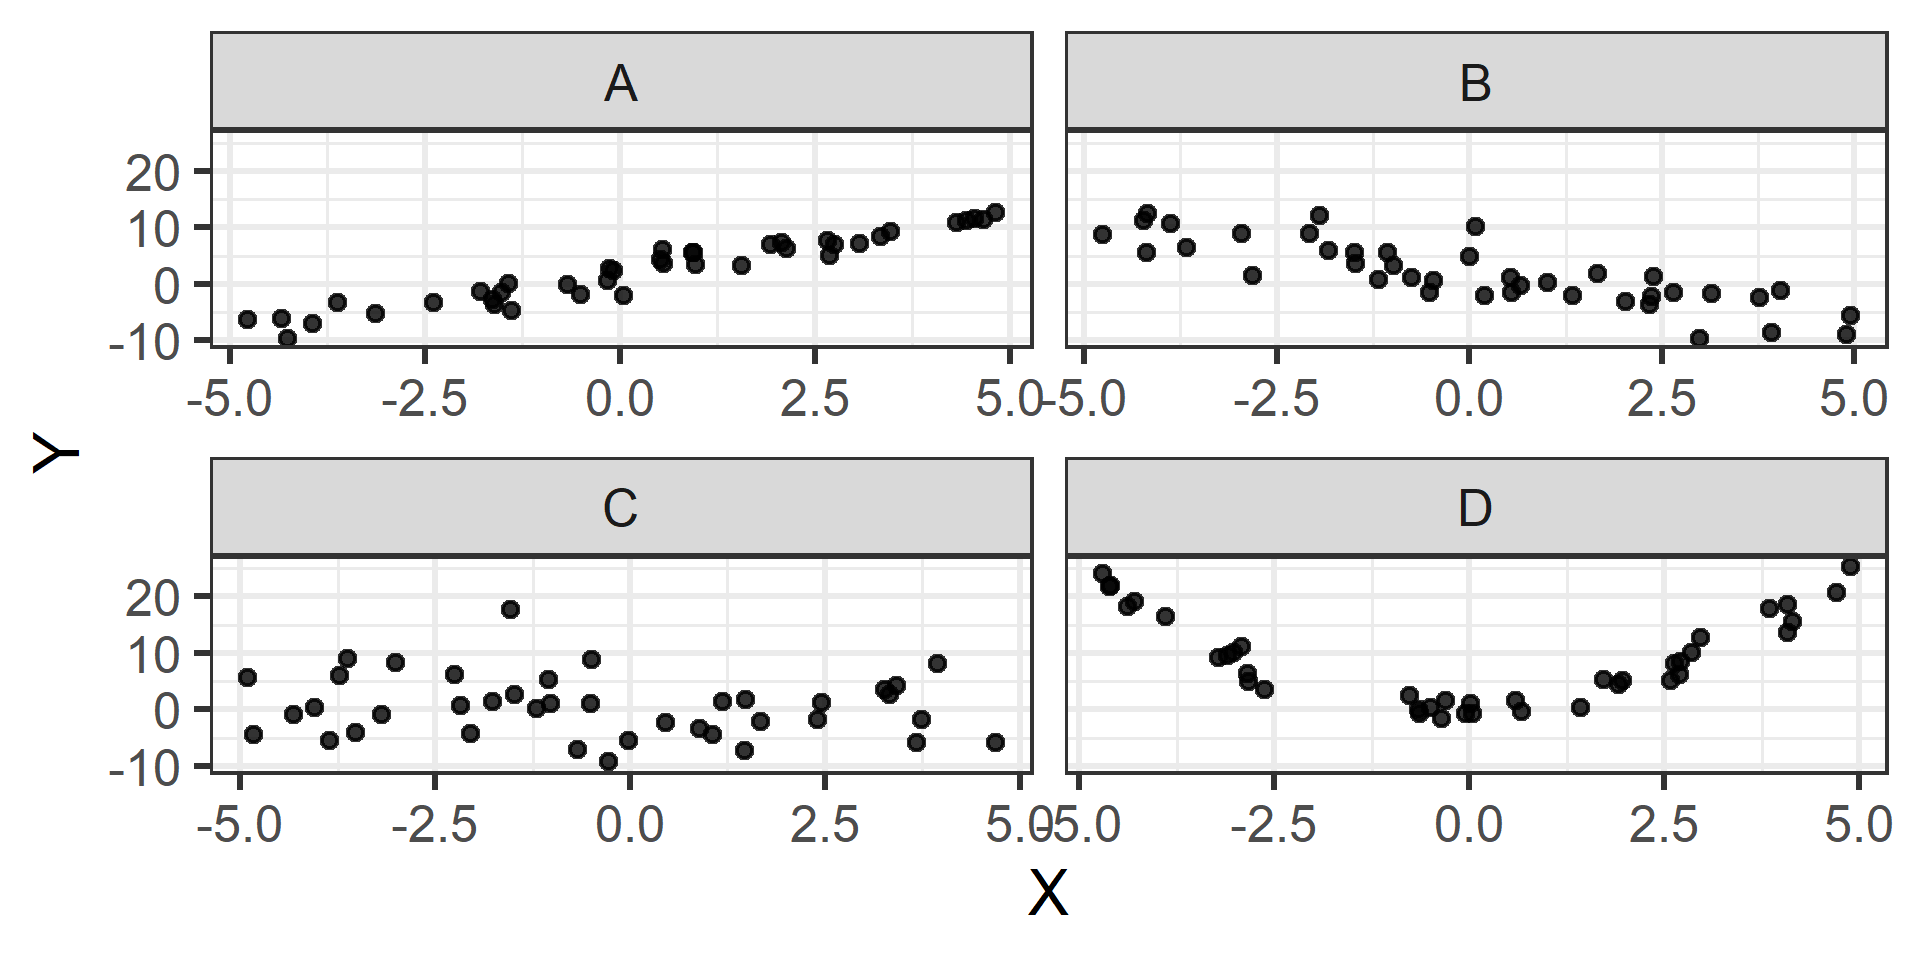
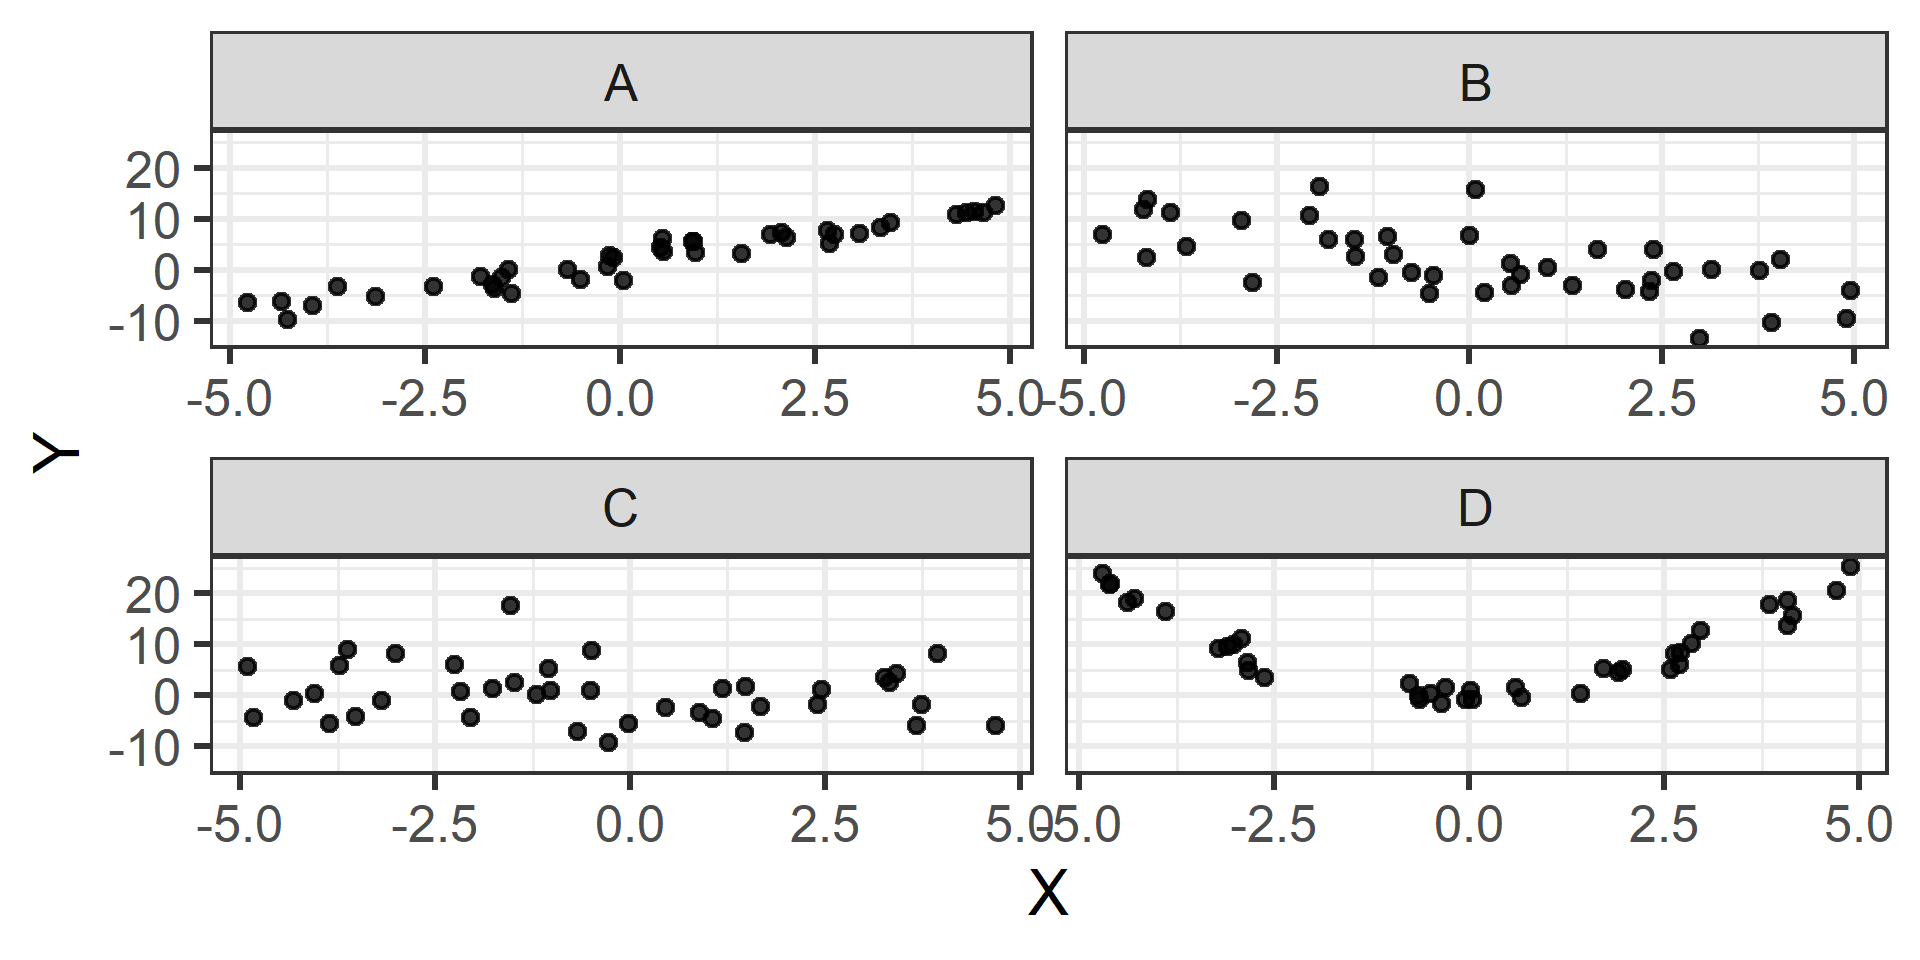
Updated lecture 5 with solutions answered in lec 5a

diff --git a/week-05/lec-05-hypothesis-testing.html b/week-05/lec-05-hypothesis-testing.html
@@ -289,6 +289,54 @@ CSUCI - Dr.&nbsp;Catalina Medina
 </div>
 </div>
 </div>
+</section>
+<section id="slopes-solution" class="slide level2">
+<h2>Slopes (Solution)</h2>
+<table class="caption-top">
+<colgroup>
+<col style="width: 11%">
+<col style="width: 38%">
+<col style="width: 38%">
+<col style="width: 11%">
+</colgroup>
+<thead>
+<tr class="header">
+<th style="text-align: left;">Plot</th>
+<th style="text-align: left;">strength of relationship</th>
+<th style="text-align: left;">strength of linear relationship</th>
+<th style="text-align: left;">slope</th>
+</tr>
+</thead>
+<tbody>
+<tr class="odd">
+<td style="text-align: left;">A</td>
+<td style="text-align: left;">very strong</td>
+<td style="text-align: left;">very strong</td>
+<td style="text-align: left;">2</td>
+</tr>
+<tr class="even">
+<td style="text-align: left;">B</td>
+<td style="text-align: left;">strong</td>
+<td style="text-align: left;">weak/moderate</td>
+<td style="text-align: left;">-2</td>
+</tr>
+<tr class="odd">
+<td style="text-align: left;">C</td>
+<td style="text-align: left;">no relationship</td>
+<td style="text-align: left;">no linear relationship</td>
+<td style="text-align: left;">0</td>
+</tr>
+<tr class="even">
+<td style="text-align: left;">D</td>
+<td style="text-align: left;">very strong</td>
+<td style="text-align: left;">no linear relationship</td>
+<td style="text-align: left;">0</td>
+</tr>
+</tbody>
+</table>
+<ul>
+<li>I did slightly edit B to make it a weaker relationship than what we saw in class 5a</li>
+</ul>
 </section></section>
 <section>
 <section id="hypotheses-for-a-regression-slope" class="title-slide slide level1 center">
@@ -515,6 +563,9 @@ F-statistic:  3090 on 1 and 1468 DF,  p-value: &lt; 2.2e-16</code></pre>
 <p>B. There is a 3% probability that the results occurred by chance.</p>
 <p>C. If the null hypothesis were true, results at least as extreme as ours would occur in about 3% of comparable studies.</p>
 <p>D. There is a 97% probability that the alternative hypothesis is true.</p>
+<div class="fragment">
+<p><em>Solution: C. The others are all similarly wrong.</em></p>
+</div>
 </section>
 <section id="what-a-p-value-does-not-tell-us" class="slide level2">
 <h2>What a p-value does not tell us</h2>
@@ -553,31 +604,31 @@ F-statistic:  3090 on 1 and 1468 DF,  p-value: &lt; 2.2e-16</code></pre>
 </section>
 <section id="conclusion-for-the-elephants" class="slide level2">
 <h2>Conclusion for the elephants</h2>
+<p><strong>Statistical decision:</strong></p>
 <p>Because <span class="math inline">\(p-value &lt; 0.05\)</span>, we reject <span class="math inline">\(H_0\)</span>.</p>
+<p><strong>Conclusion in context:</strong></p>
 <blockquote>
-<p>The results provide evidence of a linear association between elephant height and mean mass in the population represented by these data (p-value <span class="math inline">\(&lt; 2\times 10^{-16}\)</span>).</p>
+<p>The results provide evidence of a linear association between elephant height and mean mass in the population (p-value <span class="math inline">\(&lt; 2\times 10^{-16}\)</span>).</p>
 </blockquote>
-<div class="fragment">
-<p>This conclusion describes the evidence. The estimated slope describes the direction and magnitude of the association.</p>
-</div>
 </section>
 <section id="if-the-result-were-not-statistically-significant" class="slide level2">
 <h2>If the result were not statistically significant</h2>
+<p><strong>Statistical decision:</strong></p>
 <p>If <span class="math inline">\(p-value \geq 0.05\)</span>, we would fail to reject <span class="math inline">\(H_0\)</span>.</p>
+<p><strong>Conclusion in context:</strong></p>
 <blockquote>
-<p>The results do not provide sufficient evidence of a linear association between elephant height and mean mass in the population represented by these data (p-value = …).</p>
+<p>The results do not provide sufficient evidence of a linear association between elephant height and mean mass in the population (p-value = …).</p>
 </blockquote>
 <p>Avoid saying:</p>
 <ul>
 <li>“We accept the null hypothesis.”</li>
-<li>“There is no association.”</li>
-<li>“We proved that the slope is zero.”</li>
+<li>“We proved that there is no association.”</li>
 </ul>
 </section></section>
 <section>
 <section id="statistical-and-practical-significance" class="title-slide slide level1 center">
 <h1>Statistical and practical significance</h1>
-
+<p><em>This is where we stopped for Lec 5a</em></p>
 </section>
 <section id="two-different-questions" class="slide level2">
 <h2>Two different questions</h2>
